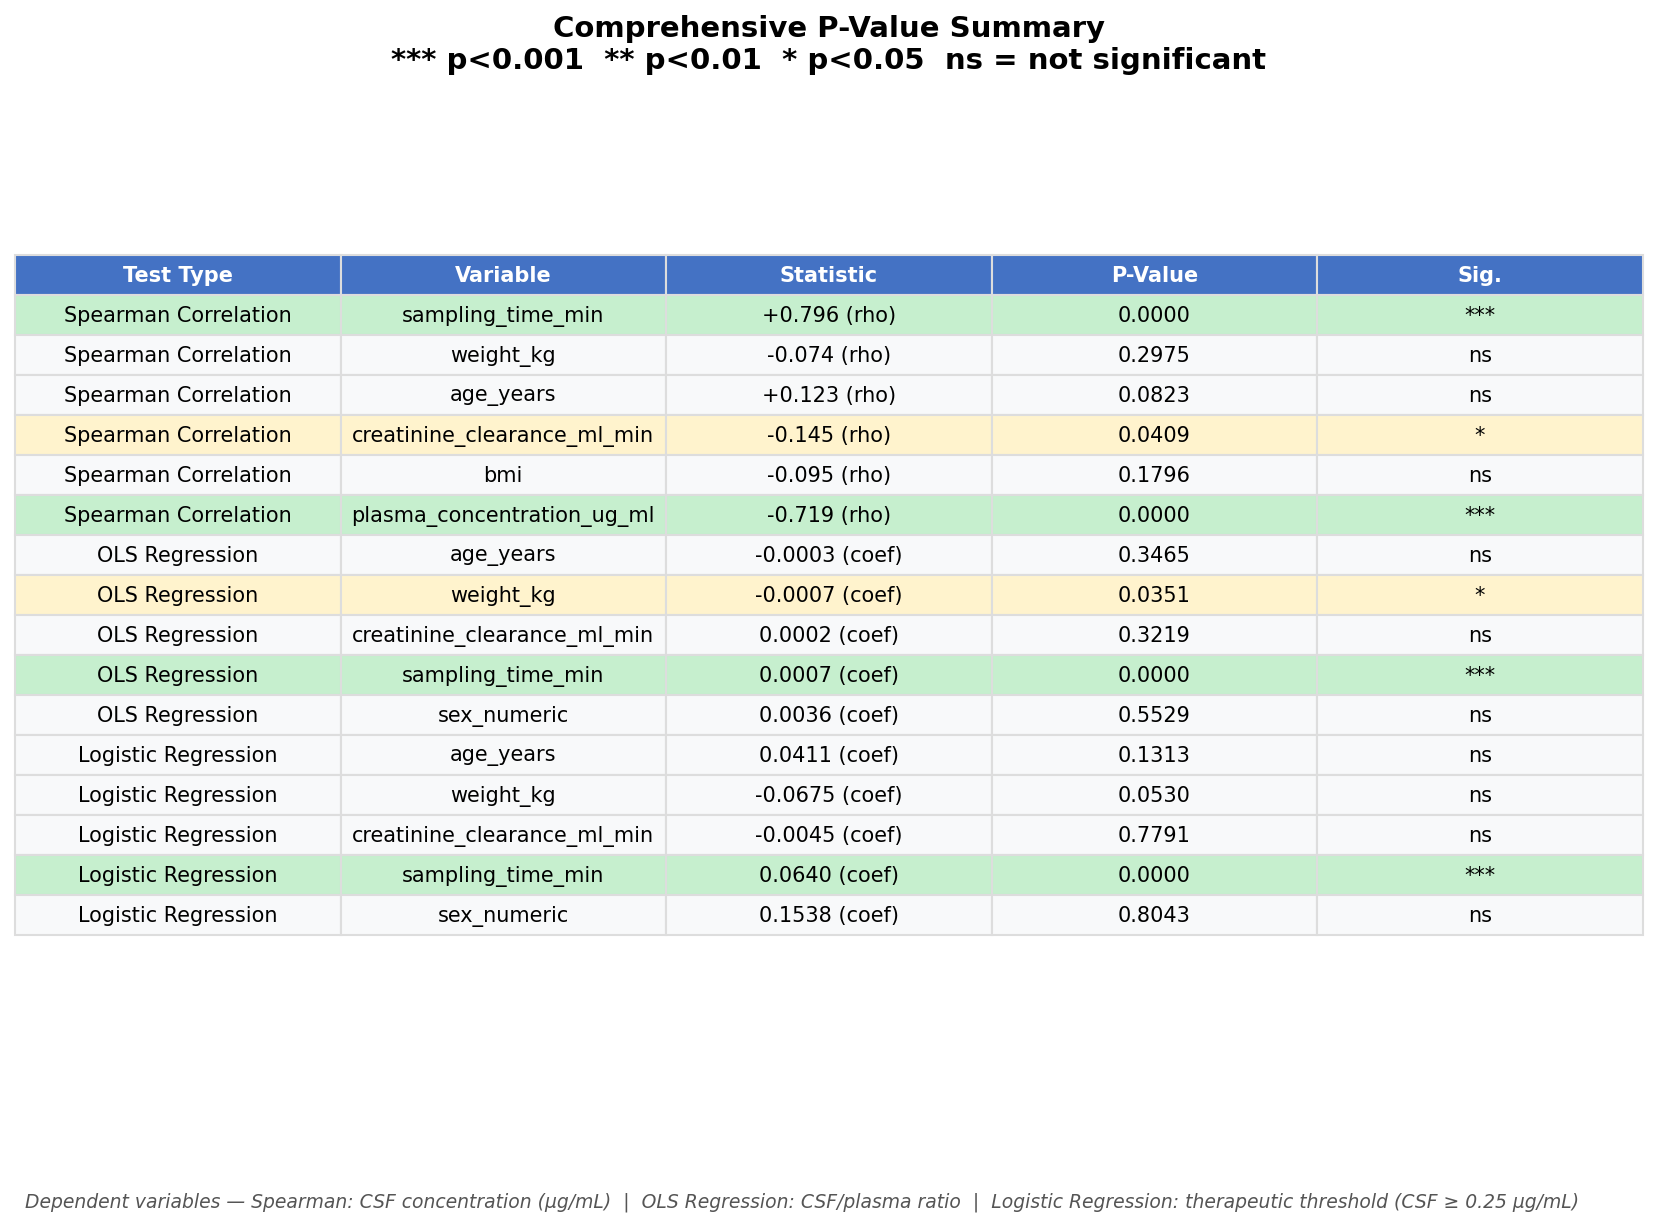
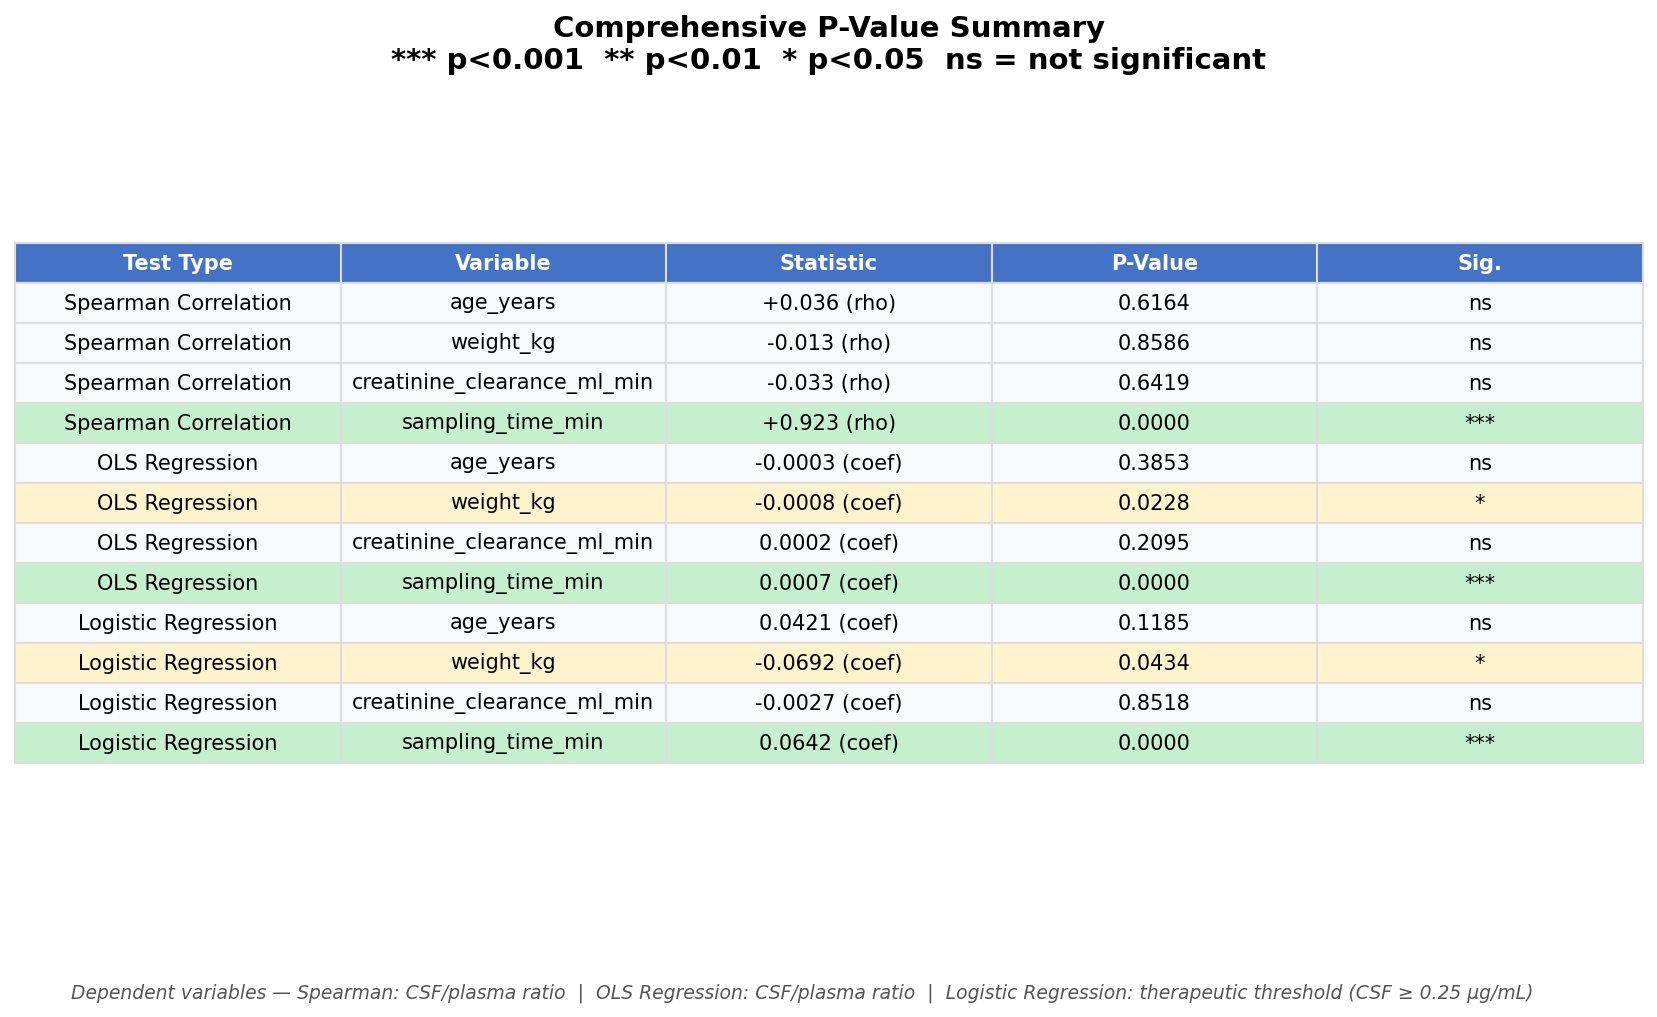
Standardize analysis variables across all figures and tables
Unified the variable set to age, weight, creatinine clearance, sampling
time, and CSF/plasma ratio across all five figures and both scripts.
Removed sex and BMI as predictors for consistency — neither showed
significance in the expanded cohort. Spearman correlations now test
against CSF/plasma ratio (previously CSF concentration) to align with
the OLS outcome variable. Updated README key results and figure
captions to reflect the revised model outputs (R²=0.47, weight p=0.023).

diff --git a/analysis.py b/analysis.py
@@ -8,12 +8,13 @@ Based on: Margetis et al. (2011) "Penetration of Intact Blood-Brain Barrier by D
 Analyses performed (NOT in the original paper):
   Part A — Correlation & Multiple Linear Regression
     - Pearson & Spearman correlations between PK variables and covariates
-    - Multiple linear regression: CSF/plasma ratio ~ age + weight + CrCl + sampling_time + sex
+    - Multiple linear regression: CSF/plasma ratio ~ age + weight + CrCl + sampling_time
   Part B — Logistic Regression for Therapeutic Threshold
     - Binary outcome: CSF concentration >= 0.25 ug/ml (MIC threshold)
     - Odds ratios with 95% CI
     - ROC curve with AUC
 
+Variables analysed: age, weight, creatinine clearance, sampling time, CSF/plasma ratio.
 Dataset: Synthetic (n=200), generated to be consistent with published PK profiles.
 """
 
@@ -43,6 +44,20 @@ print(f"Therapeutic threshold met (CSF >= 0.25 ug/ml): "
       f"({100 * df['therapeutic_threshold_met'].mean():.1f}%)\n")
 
 # ============================================================
+# DEFINE ANALYSIS VARIABLES
+# ============================================================
+# Five core variables used consistently across all analyses
+analysis_vars = [
+    "age_years", "weight_kg", "creatinine_clearance_ml_min",
+    "sampling_time_min", "csf_plasma_ratio"
+]
+# Predictors for regression models (all except the outcome)
+predictors = ["age_years", "weight_kg", "creatinine_clearance_ml_min",
+              "sampling_time_min"]
+
+X = df[predictors].copy()
+
+# ============================================================
 # PART A: CORRELATION & MULTIPLE LINEAR REGRESSION
 # ============================================================
 print("\n" + "=" * 70)
@@ -50,46 +65,31 @@ print("PART A: CORRELATION ANALYSIS & MULTIPLE LINEAR REGRESSION")
 print("=" * 70)
 
 # --- A1: Correlation Matrix ---
-print("\n--- A1: Pearson Correlation Matrix (key variables) ---\n")
-corr_vars = [
-    "age_years", "weight_kg", "bmi", "creatinine_clearance_ml_min",
-    "sampling_time_min", "plasma_concentration_ug_ml",
-    "csf_concentration_ug_ml", "csf_plasma_ratio"
-]
-corr_matrix = df[corr_vars].corr(method="pearson")
+print("\n--- A1: Pearson Correlation Matrix ---\n")
+corr_matrix = df[analysis_vars].corr(method="pearson")
 print(corr_matrix.round(3).to_string())
 
 # --- A2: Key Spearman correlations ---
-print("\n--- A2: Spearman Rank Correlations (CSF concentration vs. covariates) ---\n")
-spearman_targets = [
-    "sampling_time_min", "weight_kg", "age_years",
-    "creatinine_clearance_ml_min", "bmi", "plasma_concentration_ug_ml"
-]
+print("\n--- A2: Spearman Rank Correlations (CSF/plasma ratio vs. covariates) ---\n")
 spearman_results = []
-for var in spearman_targets:
-    rho, p = stats.spearmanr(df[var], df["csf_concentration_ug_ml"])
+for var in predictors:
+    rho, p = stats.spearmanr(df[var], df["csf_plasma_ratio"])
     sig = "***" if p < 0.001 else "**" if p < 0.01 else "*" if p < 0.05 else "ns"
-    print(f"  CSF conc vs {var:>35s}: rho = {rho:+.3f}, p = {p:.4f} {sig}")
+    print(f"  CSF/plasma ratio vs {var:>35s}: rho = {rho:+.3f}, p = {p:.4f} {sig}")
     spearman_results.append({"Variable": var, "Rho": rho, "P_Value": p, "Significance": sig})
 
 # --- A3: Multiple Linear Regression ---
 print("\n--- A3: Multiple Linear Regression ---")
 print("    Outcome: CSF/Plasma Ratio")
-print("    Predictors: age, weight, CrCl, sampling_time, sex\n")
+print("    Predictors: age, weight, CrCl, sampling_time\n")
 
-df["sex_numeric"] = (df["sex"] == "M").astype(int)
-predictors = ["age_years", "weight_kg", "creatinine_clearance_ml_min",
-              "sampling_time_min", "sex_numeric"]
-
-X = df[predictors].copy()
 y = df["csf_plasma_ratio"].copy()
-
 X_sm = sm.add_constant(X)
 ols_model = sm.OLS(y, X_sm).fit()
 print(ols_model.summary())
 
 # --- Figure 1: Correlation Heatmap + Scatter ---
-fig, axes = plt.subplots(1, 2, figsize=(18, 7))
+fig, axes = plt.subplots(1, 2, figsize=(16, 7))
 
 sns.heatmap(corr_matrix, annot=True, fmt=".2f", cmap="RdBu_r", center=0,
             square=True, linewidths=0.5, ax=axes[0],
@@ -97,15 +97,12 @@ sns.heatmap(corr_matrix, annot=True, fmt=".2f", cmap="RdBu_r", center=0,
 axes[0].set_title("Pearson Correlation Matrix", fontsize=14, fontweight="bold")
 axes[0].tick_params(axis="x", rotation=45)
 
-axes[1].scatter(df["sampling_time_min"], df["csf_concentration_ug_ml"],
+axes[1].scatter(df["sampling_time_min"], df["csf_plasma_ratio"],
                 c=df["therapeutic_threshold_met"], cmap="RdYlGn",
                 edgecolors="black", alpha=0.7, s=60)
-axes[1].axhline(y=0.25, color="red", linestyle="--", linewidth=1.5,
-                label="MIC Threshold (0.25 µg/ml)")
 axes[1].set_xlabel("Sampling Time (min post-infusion)", fontsize=12)
-axes[1].set_ylabel("CSF Doripenem Concentration (µg/ml)", fontsize=12)
-axes[1].set_title("CSF Concentration vs. Sampling Time", fontsize=14, fontweight="bold")
-axes[1].legend(fontsize=11)
+axes[1].set_ylabel("CSF/Plasma Ratio", fontsize=12)
+axes[1].set_title("CSF/Plasma Ratio vs. Sampling Time", fontsize=14, fontweight="bold")
 
 plt.tight_layout()
 plt.savefig("figure1_correlation_analysis.png", dpi=150, bbox_inches="tight")
@@ -119,7 +116,7 @@ print("\n\n" + "=" * 70)
 print("PART B: LOGISTIC REGRESSION — THERAPEUTIC THRESHOLD ACHIEVEMENT")
 print("=" * 70)
 print("\n    Outcome: CSF >= 0.25 µg/ml (binary)")
-print("    Predictors: age, weight, CrCl, sampling_time, sex\n")
+print("    Predictors: age, weight, CrCl, sampling_time\n")
 
 # --- B1: Logistic Regression (statsmodels for inference) ---
 X_logit = sm.add_constant(X)
@@ -184,7 +181,7 @@ for (row, col), cell in table3.get_celld().items():
         cell.set_text_props(color="white", fontweight="bold")
     cell.set_edgecolor("#dddddd")
 fig3.text(0.5, 0.01,
-          "Dependent variables — Spearman: CSF concentration (µg/mL)  |  OLS Regression: CSF/plasma ratio  |  "
+          "Dependent variables — Spearman: CSF/plasma ratio  |  OLS Regression: CSF/plasma ratio  |  "
           "Logistic Regression: therapeutic threshold (CSF ≥ 0.25 µg/mL)",
           ha="center", fontsize=9, fontstyle="italic", color="#555555")
 plt.savefig("figure2_pvalue_summary.png", dpi=150, bbox_inches="tight")
@@ -195,20 +192,18 @@ print("Saved: figure2_pvalue_summary.png")
 
 # --- Figure 4: Odds Ratios with Forest Plot ---
 or_plot_data = or_table.drop("const", errors="ignore")
-# Exclude sex from forest plot (wide CI distorts scale; not significant)
-or_forest_data = or_plot_data.drop("sex_numeric", errors="ignore")
 fig5, (ax5a, ax5b) = plt.subplots(1, 2, figsize=(16, max(4, len(or_plot_data) * 0.8 + 2)),
                                    gridspec_kw={"width_ratios": [1, 1.2]})
 
-# Forest plot (without sex)
-y_pos = range(len(or_forest_data))
-ax5a.errorbar(or_forest_data["Odds_Ratio"], y_pos,
-              xerr=[or_forest_data["Odds_Ratio"] - or_forest_data["OR_lower_95"],
-                    or_forest_data["OR_upper_95"] - or_forest_data["Odds_Ratio"]],
+# Forest plot
+y_pos = range(len(or_plot_data))
+ax5a.errorbar(or_plot_data["Odds_Ratio"], y_pos,
+              xerr=[or_plot_data["Odds_Ratio"] - or_plot_data["OR_lower_95"],
+                    or_plot_data["OR_upper_95"] - or_plot_data["Odds_Ratio"]],
               fmt="o", color="#4472c4", ecolor="#999999", elinewidth=2, capsize=5, markersize=8)
 ax5a.axvline(x=1.0, color="red", linestyle="--", linewidth=1.5, label="OR = 1.0 (no effect)")
 ax5a.set_yticks(list(y_pos))
-ax5a.set_yticklabels(or_forest_data.index, fontsize=11)
+ax5a.set_yticklabels(or_plot_data.index, fontsize=11)
 ax5a.set_xlabel("Odds Ratio (95% CI)", fontsize=12)
 ax5a.set_title("Forest Plot — Odds Ratios", fontsize=13, fontweight="bold")
 ax5a.legend(fontsize=10)
@@ -247,12 +242,9 @@ for (row, col), cell in table5.get_celld().items():
 ax5b.set_title("Odds Ratios — 95% Confidence Intervals", fontsize=13, fontweight="bold")
 
 plt.tight_layout()
-fig5.text(0.5, 0.02,
+fig5.text(0.5, 0.01,
           "Dependent variable: therapeutic threshold achievement (CSF ≥ 0.25 µg/mL, binary)",
           ha="center", fontsize=9, fontstyle="italic", color="#555555")
-fig5.text(0.5, -0.01,
-          "Note: sex excluded from forest plot due to wide CI distorting scale (not significant, p = 0.80); included in table.",
-          ha="center", fontsize=8, fontstyle="italic", color="#888888")
 plt.savefig("figure4_odds_ratios.png", dpi=150, bbox_inches="tight")
 plt.close()
 print("Saved: figure4_odds_ratios.png")

diff --git a/README.md b/README.md
@@ -28,12 +28,13 @@ The original study reported data on 5 neurosurgical patients (Table 1). A synthe
 
 **Linear Regression (CSF/Plasma Ratio)**
 - Sampling time is the strongest predictor (p < 0.001)
-- Weight is significant (p = 0.035)
-- Model R-squared = 0.48
+- Weight is significant (p = 0.023)
+- Model R-squared = 0.47
 
 **Logistic Regression (Therapeutic Threshold)**
 - Sampling time: OR = 1.07, p < 0.001
-- Model AUC = 0.954, accuracy = 93%
+- Weight: OR = 0.93, p = 0.043
+- Model AUC = 0.954
 
 ### Figures
 
@@ -43,7 +44,7 @@ The original study reported data on 5 neurosurgical patients (Table 1). A synthe
 **Figure 2 — Comprehensive P-Value Summary** — All statistical tests and their p-values across Spearman correlations, OLS regression, and logistic regression:
 ![P-Value Summary](figure2_pvalue_summary.png)
 
-**Figure 3 — OLS Regression Summary** — Coefficients, standard errors, t-statistics, and confidence intervals (R² = 0.48):
+**Figure 3 — OLS Regression Summary** — Coefficients, standard errors, t-statistics, and confidence intervals (R² = 0.47):
 ![OLS Summary](figure3_ols_summary.png)
 
 **Figure 4 — Odds Ratios with Forest Plot** — Odds ratios with 95% confidence intervals for predictors of therapeutic threshold achievement:
